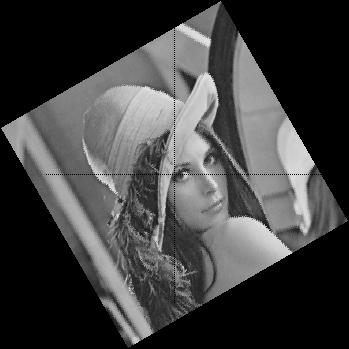
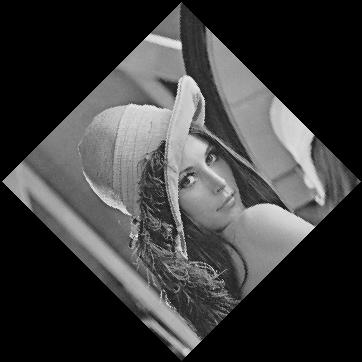
improvement

diff --git a/utils.py b/utils.py
@@ -234,20 +234,9 @@ def func_manual_rotate_image_interpolation(param_input, param_angle, param_inter
                      tmp = np.dot(kernel.T, vector_rotate)
                      rotate_momentum = tmp + origin_center
                      x1, y1 = np.floor(rotate_momentum).astype(dtype=np.int)
-                     x2, y2 = np.ceil(rotate_momentum).astype(dtype=np.int)
-                     if 0 < x1 < rows and 0 < y1 < cols and 0 < x2 < rows and 0 < y2 < cols:
-                         pol1 = param_input[x1][y1]
-                         pol2 = param_input[x1][y2]
-                         pol3 = param_input[x2][y1]
-                         pol4 = param_input[x2][y2]
-                         bilinear_pixel_value1 = pol1*(x2 - rotate_momentum[0])*(y2 - rotate_momentum[1]) + pol2*(rotate_momentum[0] - x1)*(y2 - rotate_momentum[1])
-                         bilinear_pixel_value2 = pol3*(x2 - rotate_momentum[0])*(rotate_momentum[1] - y1) + pol4*(rotate_momentum[0] - x1)*(rotate_momentum[1] - y1)
-                         bilinear_pixel_value = bilinear_pixel_value1 + bilinear_pixel_value2
-                         if bilinear_pixel_value < 0:
-                             bilinear_pixel_value = 0
-                         elif bilinear_pixel_value > 255:
-                             bilinear_pixel_value = 1
-                         output[x][y] = np.uint8(bilinear_pixel_value)
+                     x2, y2 = np.ceil(rotate_momentum - np.floor(rotate_momentum)).astype(dtype=np.int)
+                     if 0 < x1 < rows-1 and 0 < y1 < cols-1 :
+                         output[x][y] = (1-x2)*(1-y2)*param_input[x1][y1] + (1-x2)*y2*param_input[x1][y1+1] + x2*(1-y2)*param_input[x1+1][y1] + x2*y2*param_input[x1+1][y1+1]
          except Exception as Argument:
             print('func_manual_rotate_image_interpolation exception occurred: {0}'.format(Argument))
             input()

diff --git a/main.py b/main.py
@@ -52,19 +52,20 @@ try:
     rotate_image2 = utils.func_manual_rotate_image_interpolation(img_array, 10)
     rotate_image3 = utils.func_manual_rotate_image_interpolation(img_array, 90)
 except Exception as Argument:
-    print('Adding Laplacian noise exception occurred: {0}'.format(Argument))
+    print('Rotating image exception occurred: {0}'.format(Argument))
     input()
 else:
     Image.fromarray(utils.func_verify_image(rotate_image1)).save('rotate_img_1.jpg')
     Image.fromarray(utils.func_verify_image(rotate_image2)).save('rotate_img_2.jpg')
     Image.fromarray(utils.func_verify_image(rotate_image3)).save('rotate_img_3.jpg')
     #Use build in function
-    rotate_image12 = Image.fromarray(img_array).rotate(45, expand=True, resample=Image.NEAREST).save('rotate_img_12.jpg')
-    rotate_image13 = Image.fromarray(img_array).rotate(45, expand=True, resample=Image.BILINEAR).save('rotate_img_13.jpg')
-    print('Successfully Rotated Image')
-
+#     rotate_image12 = Image.fromarray(img_array).rotate(45, expand=True, resample=Image.NEAREST).save('rotate_img_12.jpg')
+#     rotate_image13 = Image.fromarray(img_array).rotate(45, expand=True, resample=Image.BILINEAR).save('rotate_img_13.jpg')
+#     print('Successfully Rotated Image')
+rotate_image12 = Image.fromarray(img_array).rotate(45, expand=True, resample=Image.NEAREST).save('rotate_img_12.jpg')
+rotate_image13 = Image.fromarray(img_array).rotate(45, expand=True, resample=Image.BILINEAR).save('rotate_img_13.jpg')
 try:
-    rotate_image4 = utils.func_manual_rotate_image_interpolation(img_array, 30, 1)
+    rotate_image4 = utils.func_manual_rotate_image_interpolation(img_array, 45, 1)
 except Exception as Argument:
     print('Adding Laplacian noise exception occurred: {0}'.format(Argument))
     input()
